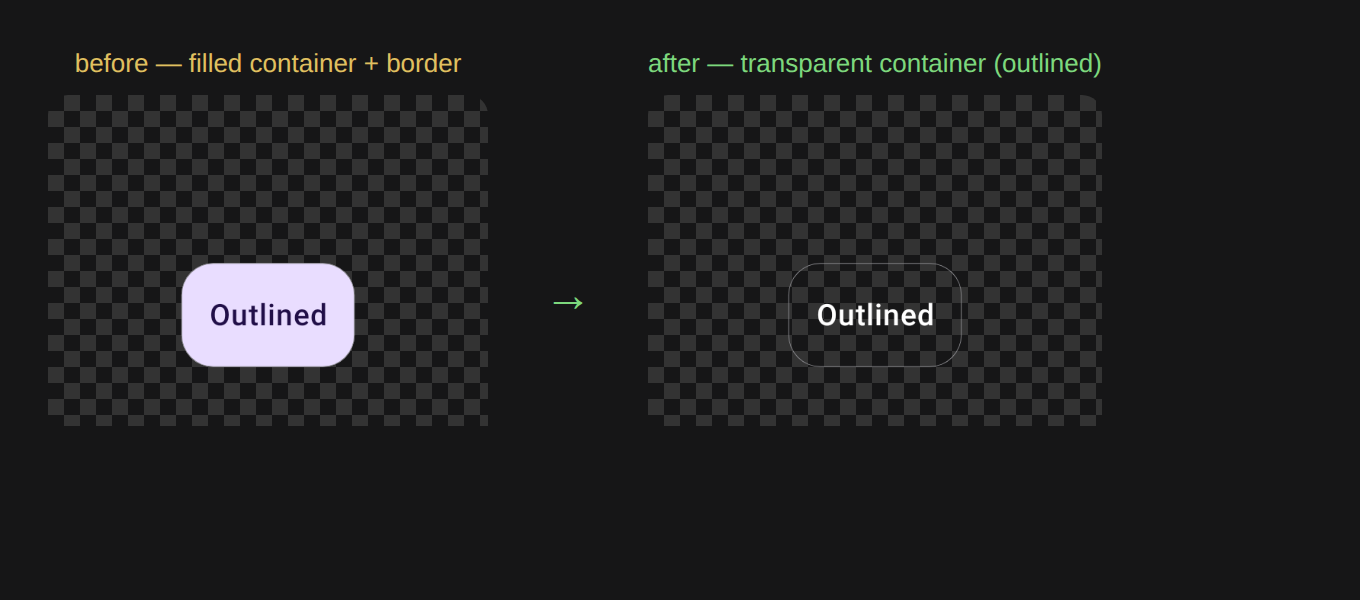
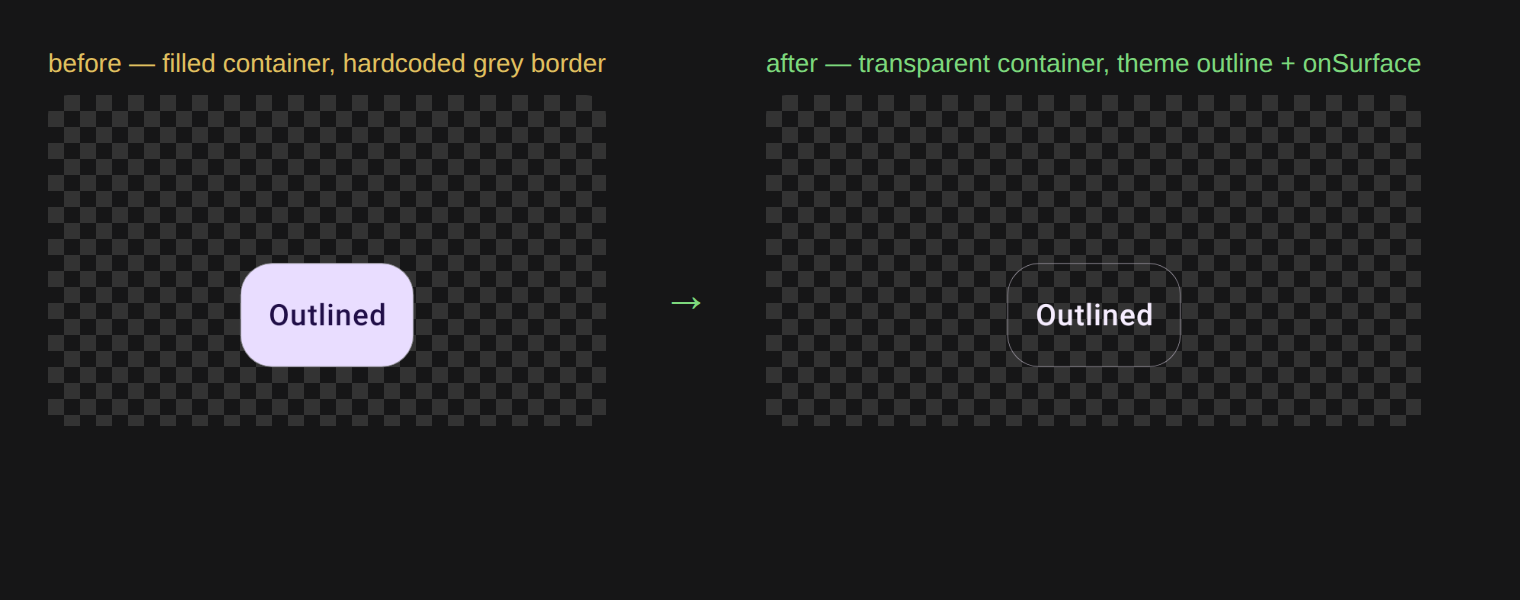
refactor(samples): derive remote OutlinedButton colours from theme tokens
Drop the hardcoded grey `outline = Color(0xFF8A8A8E)` constant. The outlined
button now pulls its border from `colorScheme.outline` and its content from
`colorScheme.onSurface` — the same tokens Wear's `outlinedButtonColors()` uses —
so the only value we override is the transparent container (the delta the missing
`RemoteOutlinedButton` would otherwise supply). No re-encoded defaults left to
drift from the library/theme.

diff --git a/samples/design-catalog-remote-m3/src/main/kotlin/com/example/designcatalogremotem3/CatalogPreviews.kt b/samples/design-catalog-remote-m3/src/main/kotlin/com/example/designcatalogremotem3/CatalogPreviews.kt
@@ -70,13 +70,6 @@ import androidx.wear.compose.remote.material3.buttonSizeModifier
 // payload and a remote-float handler id.
 private val testAction = hostAction("catalogAction".rs, 1.rf)
 
-// A neutral outline colour for the bordered (outlined-emphasis) button. The
-// stickers render on a transparent background (like the Wear catalog), so
-// standalone text/icons keep the theme's default (light) content colour rather
-// than an explicit dark one — matching how the Wear stickers read on the same
-// transparent checkerboard.
-private val outline = RemoteColor(Color(0xFF8A8A8E))
-
 // A simple five-point star used by the icon stickers. Remote Compose has no bundled
 // icon set and `RemoteIcon` takes an `ImageVector`, so the catalog carries one
 // hand-built vector rather than depending on `material-icons`. `RemoteIcon` re-tints
@@ -128,9 +121,12 @@ fun FilledRemoteButton() = RemoteSticker {
 // hood: a `RemoteButton` with a **transparent container** + a border. Overriding
 // `containerColor` is the key — the default `buttonColors()` is `primary`-filled,
 // so a bare `RemoteButton` + border would render as a *filled* button with an
-// outline, not an outlined one. `contentColor` follows `onBackground` so the label
-// stays legible over the transparent fill. Wear M3 parallel: `OutlinedButton`
-// (`Button/Outlined`).
+// outline, not an outlined one. Every other colour is pulled straight from the
+// theme (`buttonColors()` leaves un-passed colours at their exact defaults) rather
+// than re-encoded here: the content is `onSurface` and the border is the theme's
+// `outline` token — the same tokens Wear's `outlinedButtonColors()` uses — so the
+// two systems' outlined buttons stay in lockstep with the theme. Wear M3 parallel:
+// `OutlinedButton` (`Button/Outlined`).
 @CatalogRemoteModes
 @Composable
 fun OutlinedRemoteButton() = RemoteSticker {
@@ -140,10 +136,10 @@ fun OutlinedRemoteButton() = RemoteSticker {
     colors =
       RemoteButtonDefaults.buttonColors(
         containerColor = RemoteColor(Color.Transparent),
-        contentColor = RemoteMaterialTheme.colorScheme.onBackground,
+        contentColor = RemoteMaterialTheme.colorScheme.onSurface,
       ),
     border = 2.rdp,
-    borderColor = outline,
+    borderColor = RemoteMaterialTheme.colorScheme.outline,
     content = { RemoteText("Outlined".rs) },
   )
 }
